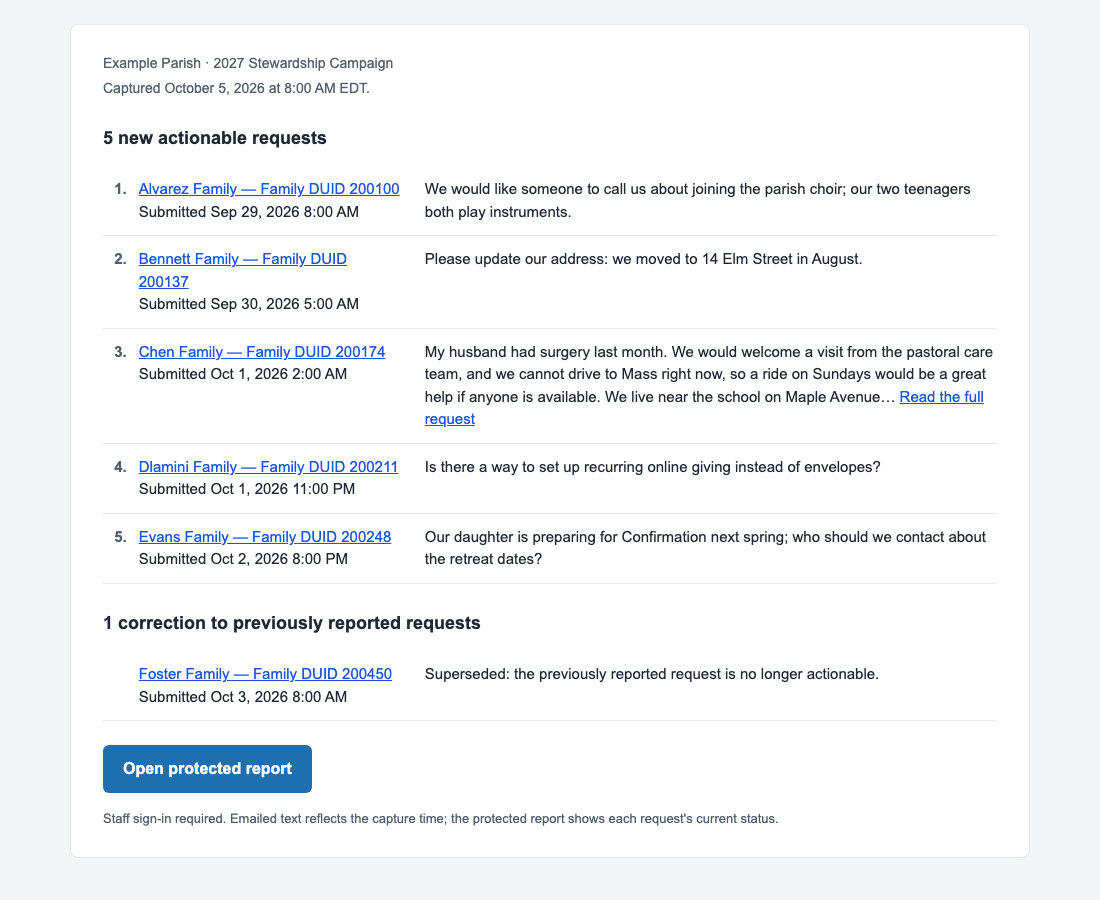
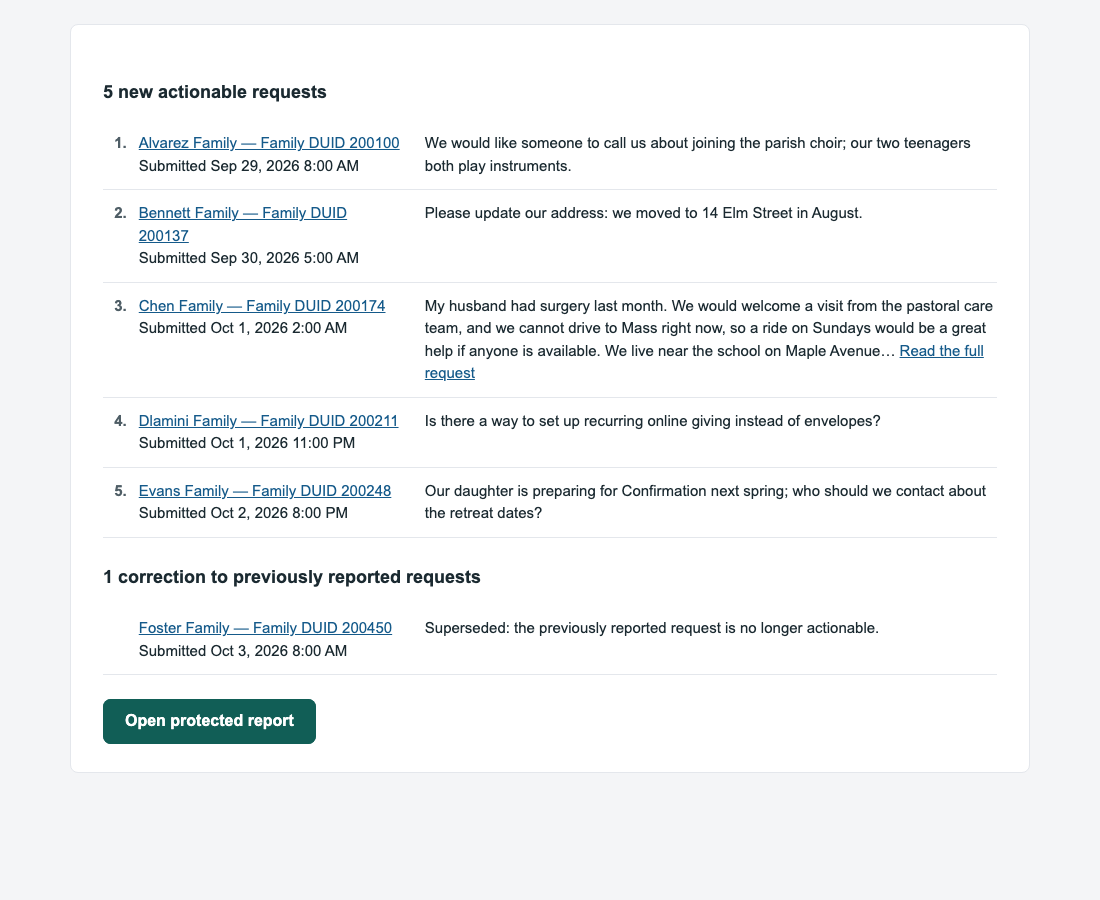
docs: refresh report email screenshots after the trims
The Administrator removed the remaining header lines and small print
from both report emails (#727) and asked for the portal's button. The
screenshots and the "Report email layout" reasons now match.

Changed region(s): [[0.0927, 0.0622, 0.8964, 0.6533], [0.0927, 0.6844, 0.8036, 0.9333]]

diff --git a/docs/specs/stewardship/reports/spec.md b/docs/specs/stewardship/reports/spec.md
@@ -1066,11 +1066,16 @@ section records why they look that way:
   Common advice for marketing mail is 600–640px
   ([Litmus, email myths](https://www.litmus.com/blog/7-myths-of-email-development));
   the Administrator chose desktop instead.
-- **Each fact once, content first.** The subject names the report, so the
-  body has no title; one line names the parish and campaign; one as-of or
-  capture line is the only place that names the time zone. The first screen
-  is content: the daily totals with their bars and the chart, or the weekly
-  numbered requests. Explanations are small print at the end.
+- **Each fact once, content first.** The subject names the report, its day,
+  the campaign and the parish, so the body names none of them. The daily
+  email starts with its as-of line (the report-day definition, and the only
+  place naming the time zone); the weekly email starts with its numbered
+  requests. There is no small print: the data age and connection are on the
+  saved report page.
+- **Portal look.** The report button is the Admin portal's primary button
+  (accent colour, radius, padding, bold label) drawn as a table cell, and
+  links use the portal's link colour. Shared tokens for every email and the
+  portal are [#732](https://github.com/epiphany40223/parishkit/issues/732).
 - **Construction.** Tables for layout, every style inline, no flexbox, grid,
   gradients, background images, SVG or `data:` images, none of which Gmail or
   Outlook for Windows renders reliably
